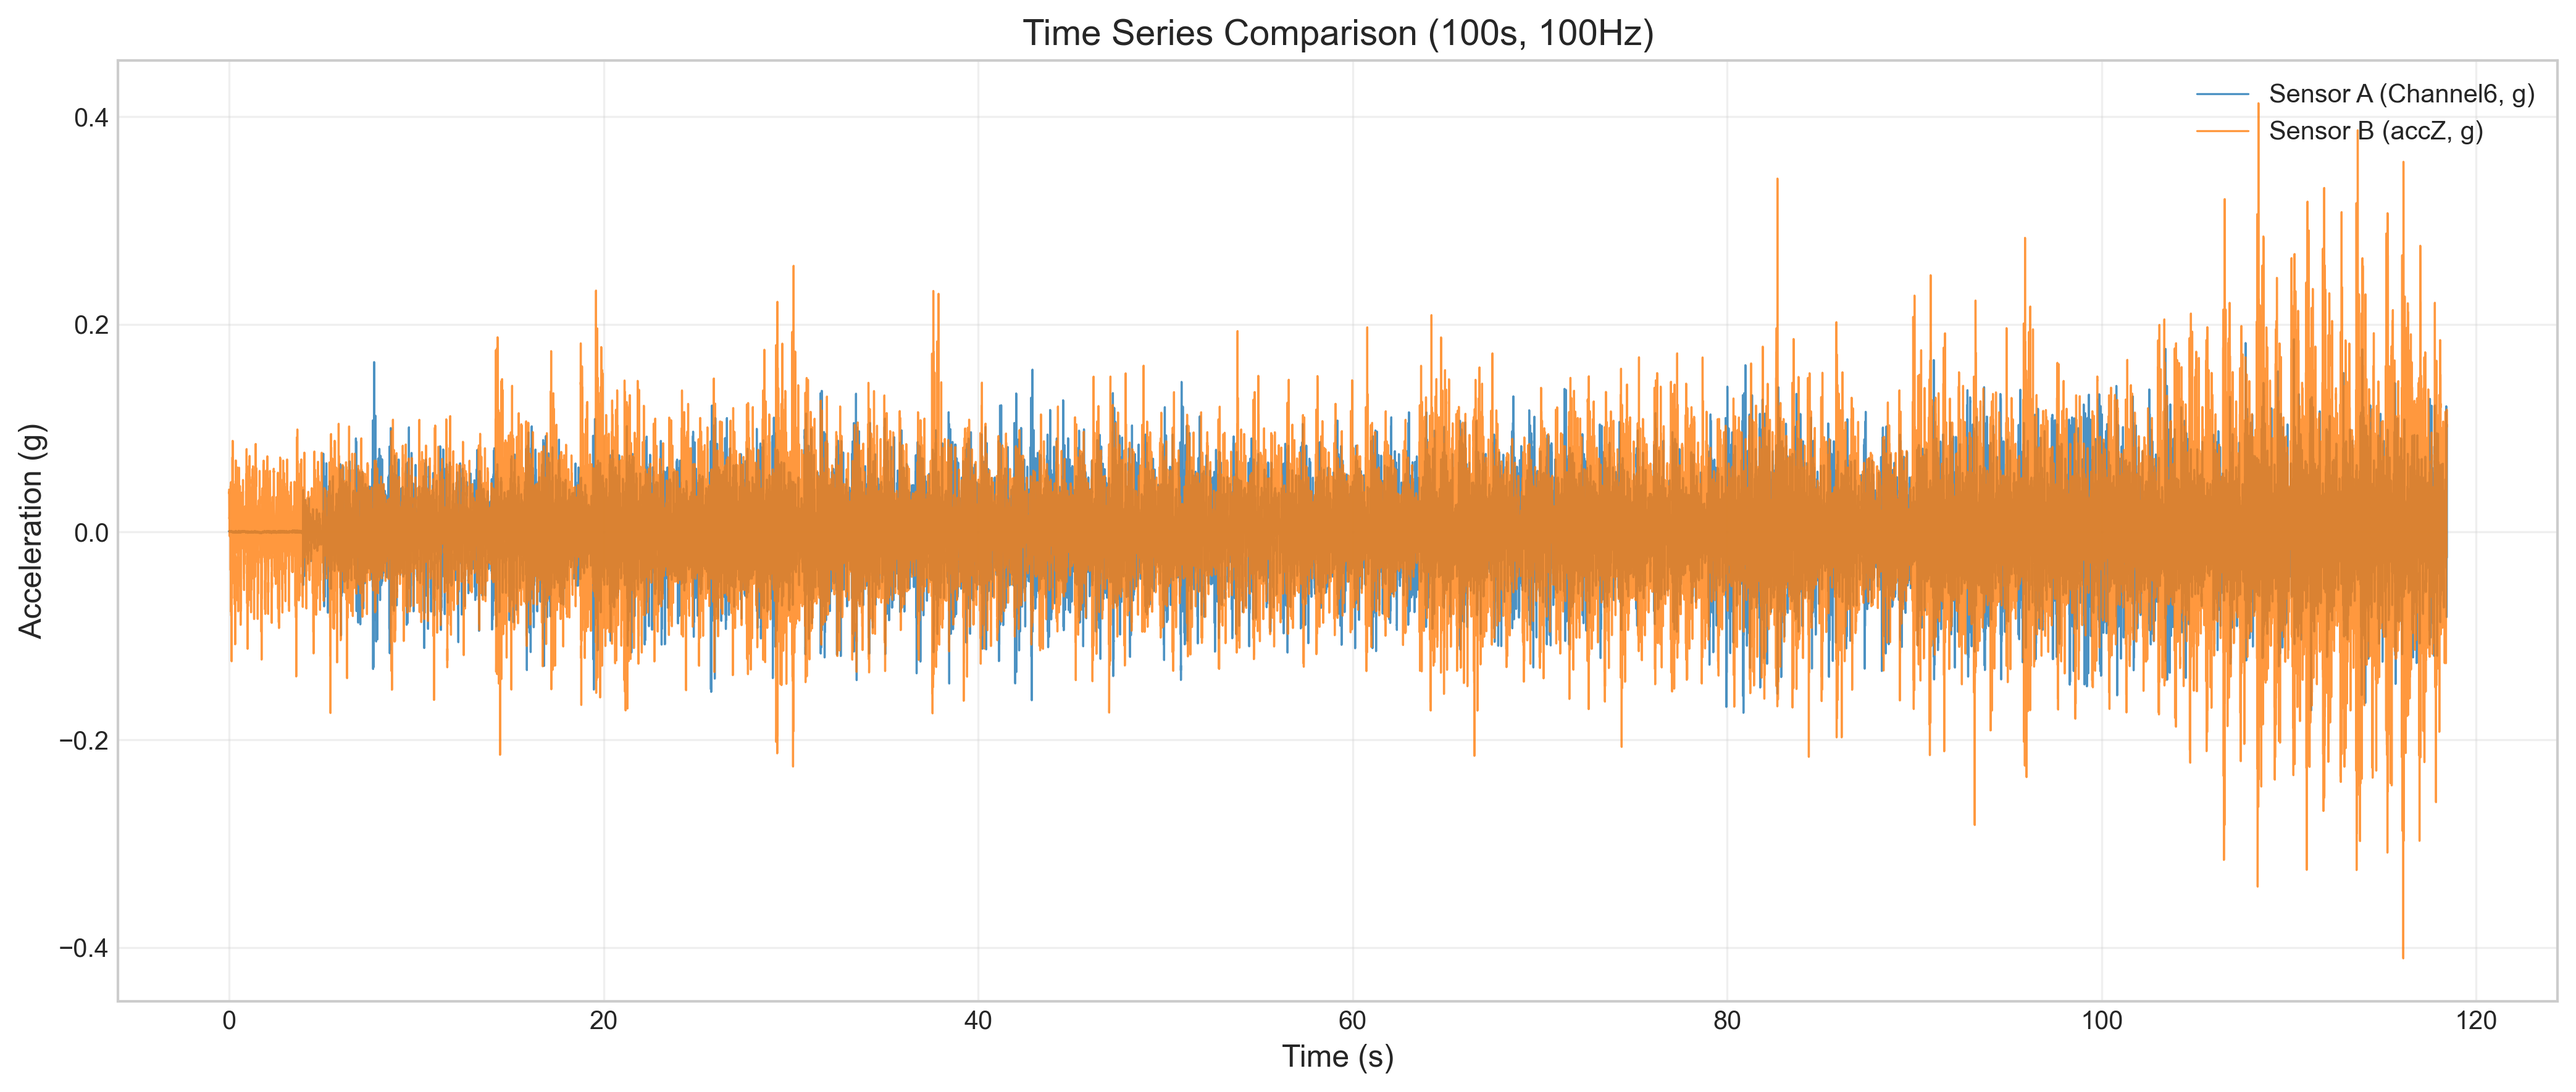
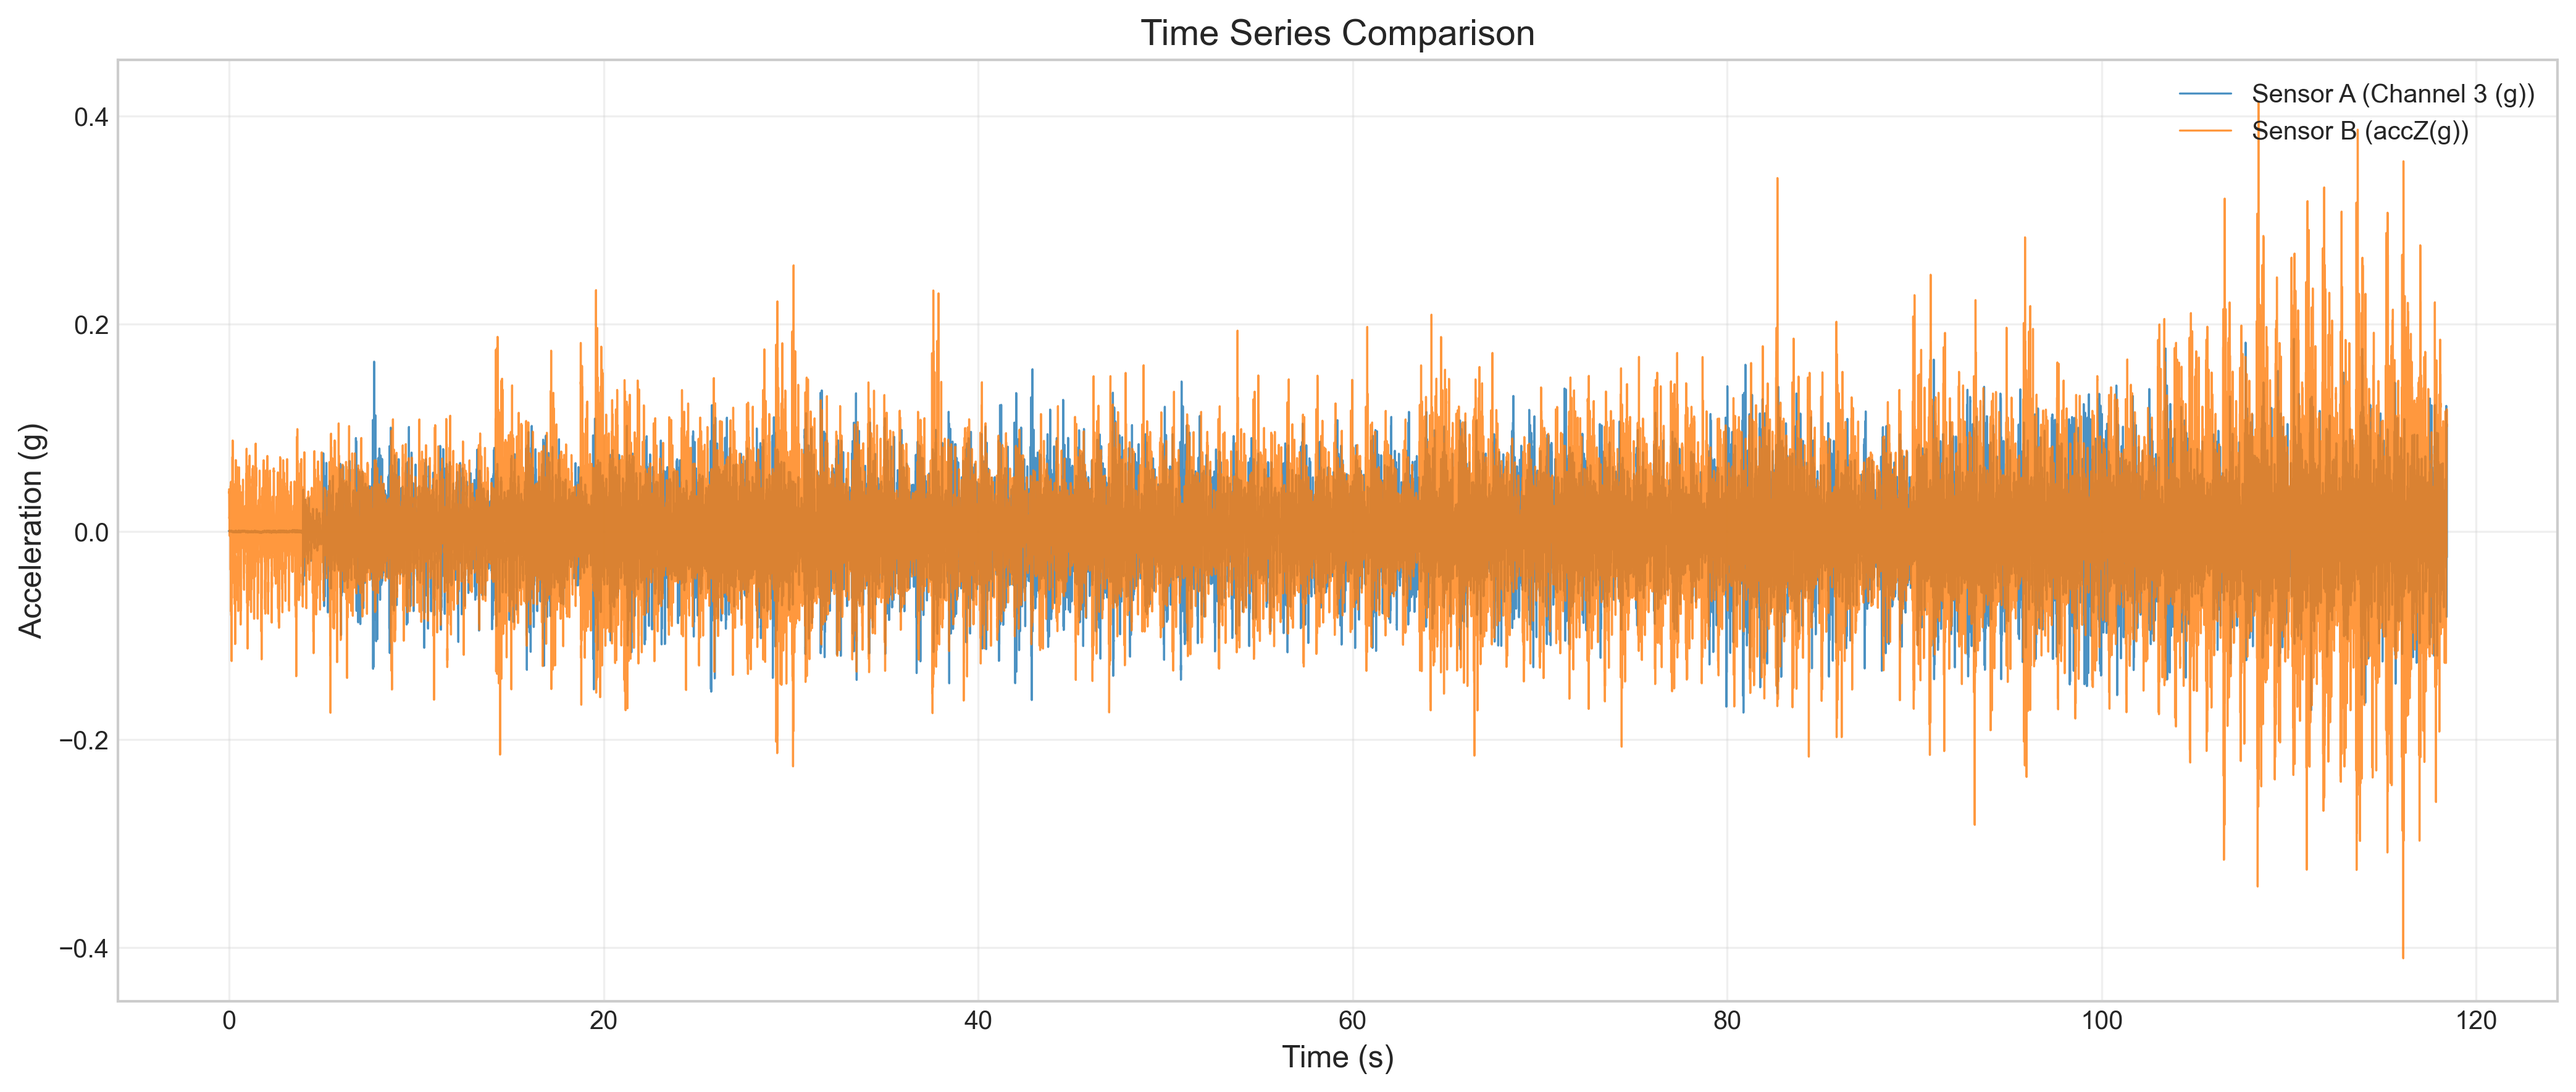
fix: use value_column from config for report title and time series labels

Changed region(s): [[0.4051, 0.0, 0.6544, 0.0622], [0.8725, 0.0622, 0.9971, 0.1244]]

diff --git a/src/analysis/full_plan_compare.py b/src/analysis/full_plan_compare.py
@@ -184,8 +184,8 @@ def run_full_report_from_config(config_path: str = "configs/project.yaml") -> Di
         t,
         sensor_a,
         sensor_b,
-        labels=("Sensor A (Channel6, g)", "Sensor B (accZ, g)"),
-        title="Time Series Comparison (100s, 100Hz)",
+        labels=(f"Sensor A ({sa_cfg['value_column']})", f"Sensor B ({sb_cfg['value_column']})"),
+        title="Time Series Comparison",
         ylabel="Acceleration (g)",
         save_path=str(fig_time),
     )
@@ -288,7 +288,7 @@ def run_full_report_from_config(config_path: str = "configs/project.yaml") -> Di
     report_path = generate_report(
         comparison_results=results,
         output_path=str(report_md),
-        title="Full Comparison Report: Sensor A Channel6 vs Sensor B accZ",
+        title=f"Full Comparison Report: Sensor A {sa_cfg['value_column']} vs Sensor B {sb_cfg['value_column']}",
     )
 
     # Save compact summary CSV

diff --git a/results/reports/comparison_pair_report.md b/results/reports/comparison_pair_report.md
@@ -1,6 +1,6 @@
-# Full Comparison Report: Sensor A Channel6 vs Sensor B accZ
+# Full Comparison Report: Sensor A Channel 3 (g) vs Sensor B accZ(g)
 
-Generated: 2026-03-01 22:15:42
+Generated: 2026-03-01 22:25:13
 
 ---
 
